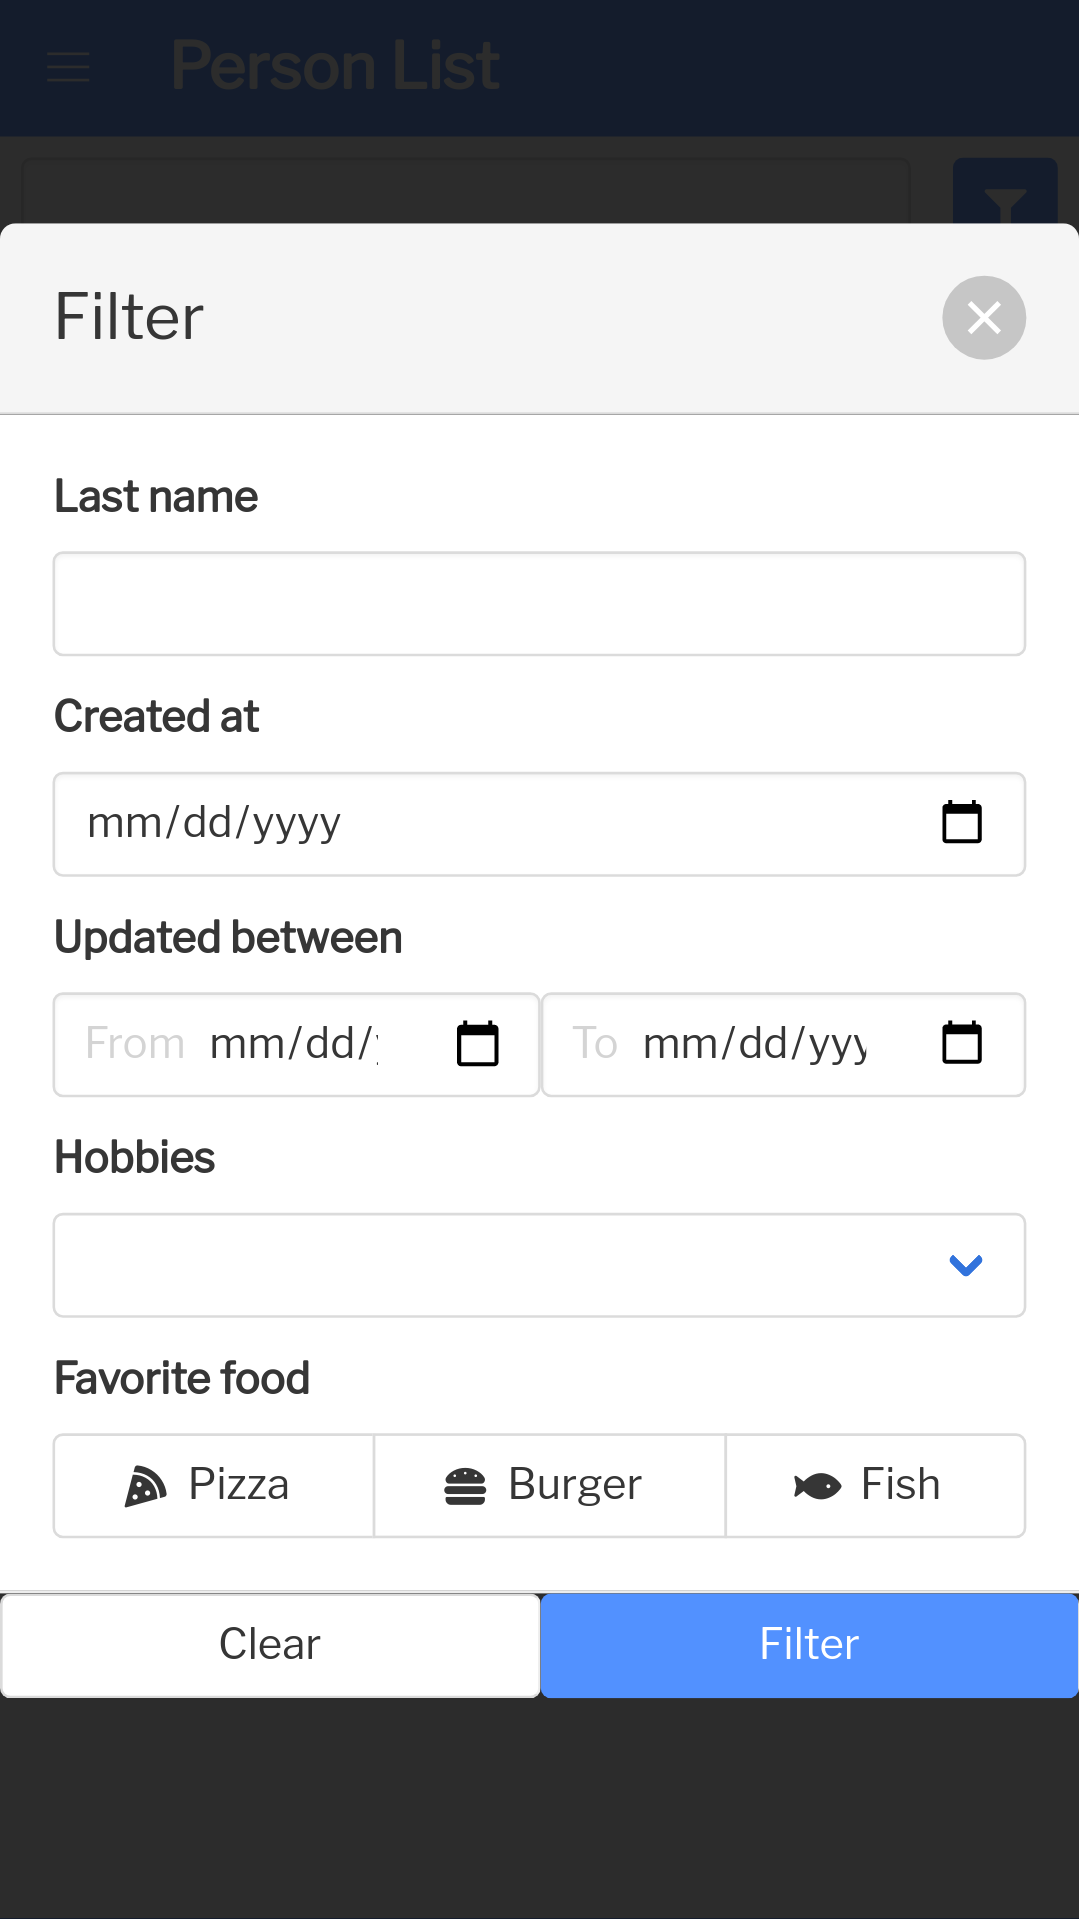
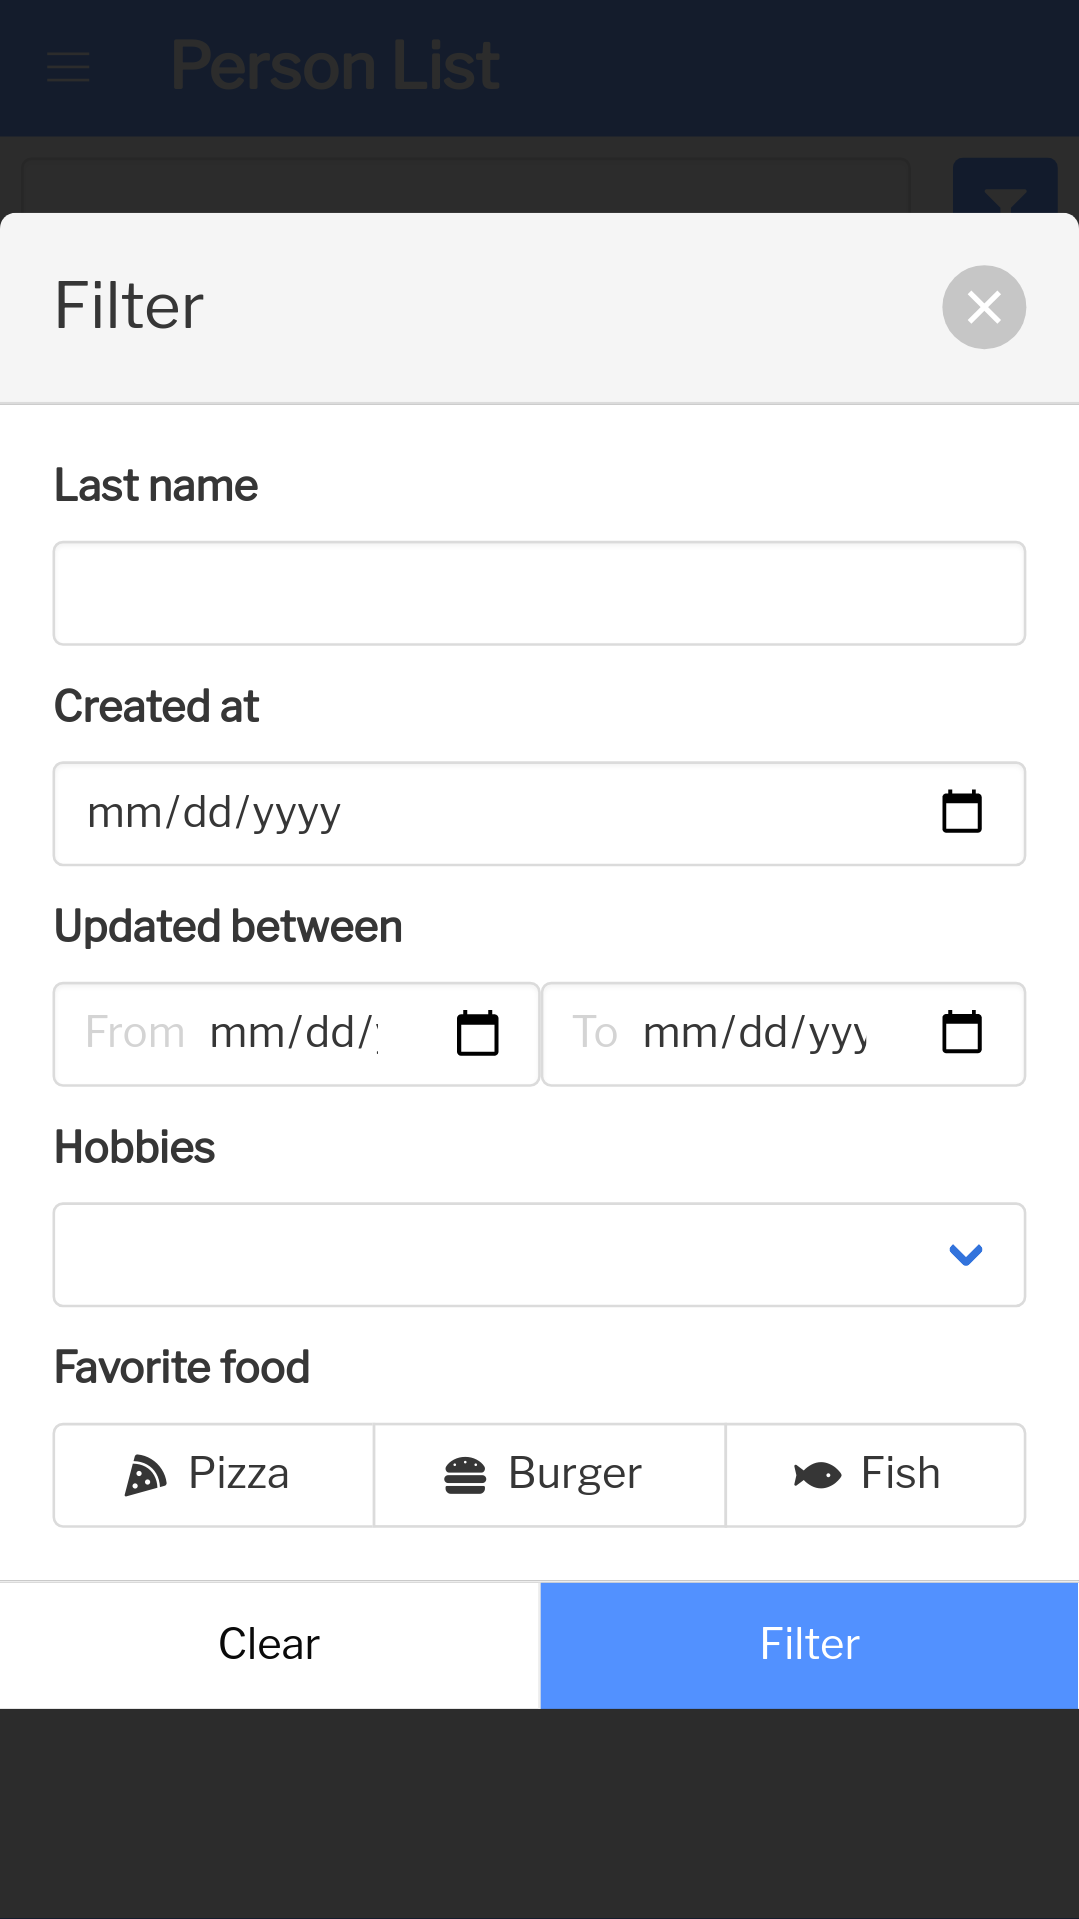
Use card footer buttons for the filter modal

diff --git a/blocks/filter/src/index.tsx b/blocks/filter/src/index.tsx
@@ -1,5 +1,5 @@
 import { bootstrap } from '@appsemble/preact';
-import { Button, Form, Modal, useToggle } from '@appsemble/preact-components';
+import { Button, CardFooterButton, Form, Modal, useToggle } from '@appsemble/preact-components';
 import classNames from 'classnames';
 import { Fragment, h } from 'preact';
 import { useCallback, useEffect, useMemo, useState } from 'preact/hooks';
@@ -103,12 +103,12 @@ bootstrap(
         <Modal
           footer={
             <Fragment>
-              <Button className="card-footer-item" onClick={resetFilter}>
+              <CardFooterButton onClick={resetFilter}>
                 {utils.remap(clearLabel, {})}
-              </Button>
-              <Button className="card-footer-item" color="primary" type="submit">
+              </CardFooterButton>
+              <CardFooterButton color="primary" type="submit">
                 {utils.remap(submitLabel, {})}
-              </Button>
+              </CardFooterButton>
             </Fragment>
           }
           isActive={modal.enabled}

diff --git a/packages/preact-components/src/CardFooterButton/index.tsx b/packages/preact-components/src/CardFooterButton/index.tsx
@@ -1,0 +1,20 @@
+import classNames from 'classnames';
+import { h, VNode } from 'preact';
+
+import Button from '../Button';
+import type { Props } from '../types';
+import styles from './index.css';
+
+export default function CardFooterButton({
+  className,
+  color = 'white',
+  ...props
+}: Props<typeof Button>): VNode {
+  return (
+    <Button
+      className={classNames(`card-footer-item ${styles.root}`, className)}
+      color={color}
+      {...props}
+    />
+  );
+}

diff --git a/packages/preact-components/src/index.tsx b/packages/preact-components/src/index.tsx
@@ -1,6 +1,7 @@
 export { default as Button } from './Button';
 export { default as ButtonGroup } from './ButtonGroup';
 export { default as ButtonOption } from './ButtonOption';
+export { default as CardFooterButton } from './CardFooterButton';
 export { default as Form } from './Form';
 export { default as FormComponent } from './FormComponent';
 export { default as Icon } from './Icon';

diff --git a/packages/preact-components/src/CardFooterButton/index.css b/packages/preact-components/src/CardFooterButton/index.css
@@ -1,0 +1,7 @@
+.root {
+  border: none;
+  border-radius: 0;
+  cursor: pointer;
+  font: inherit;
+  height: auto;
+}
